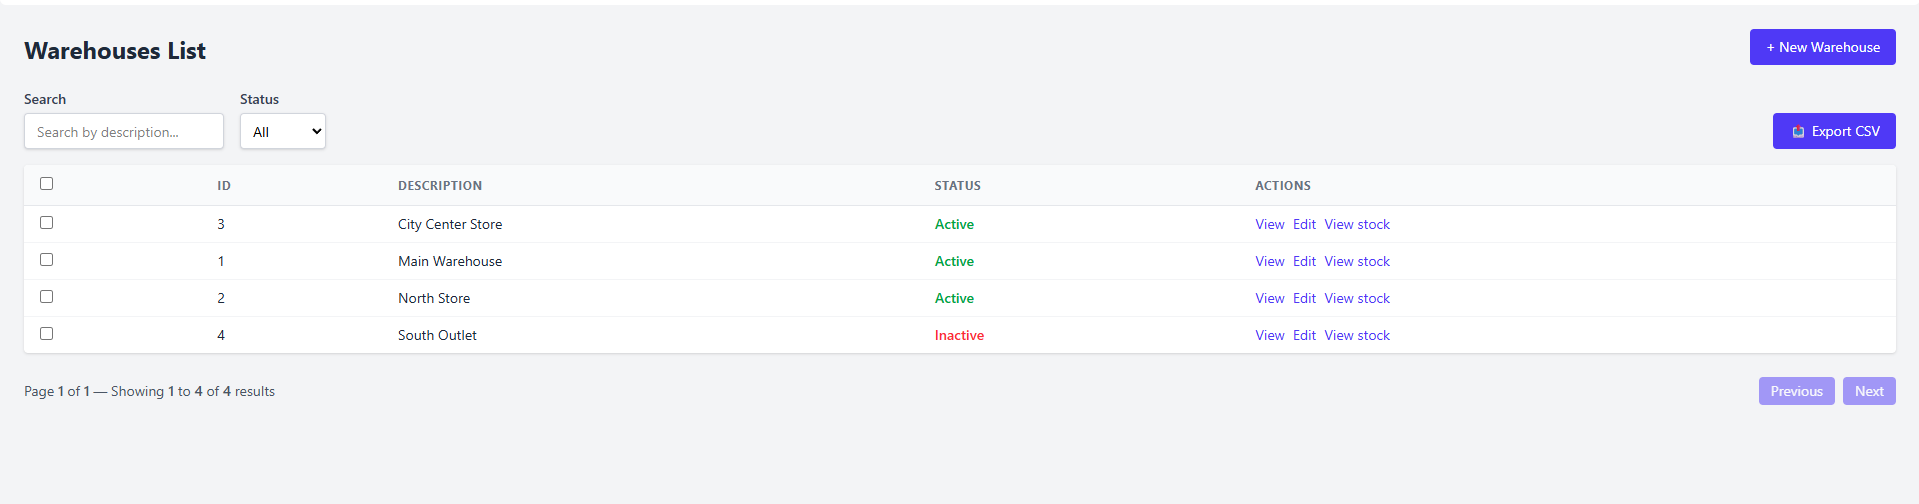
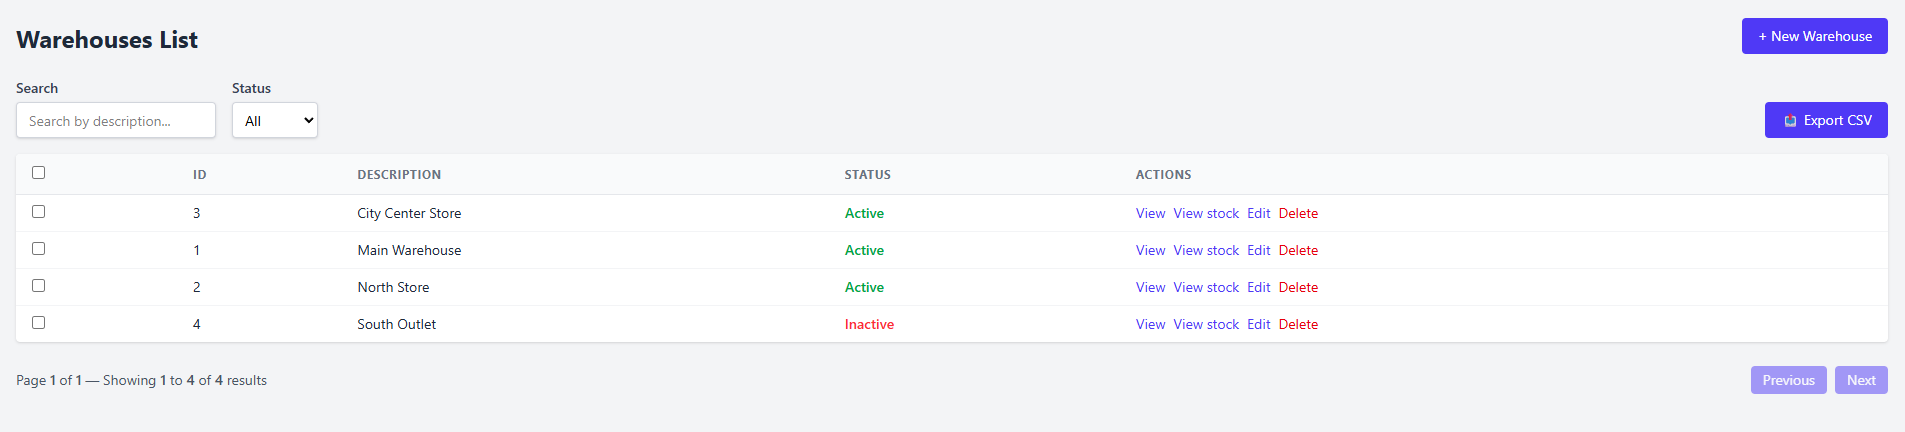
docs(USAGE): update warehouses list description and snapshot

diff --git a/docs/USAGE.md b/docs/USAGE.md
@@ -510,8 +510,9 @@ You can:
 - See activation status (in green/red)
 - Perform actions:
   - **View** → View details and stats
-  - **Edit** → Change description or status
   - **View stock** → See stock breakdown by product
+  - **Edit** → Change description or status
+  - **Delete** → Delete the warehouse if empty, inactive and has no associated movements (only admins)
 
 ![warehouses list screenshot](./images/warehouses-list.png)
 
